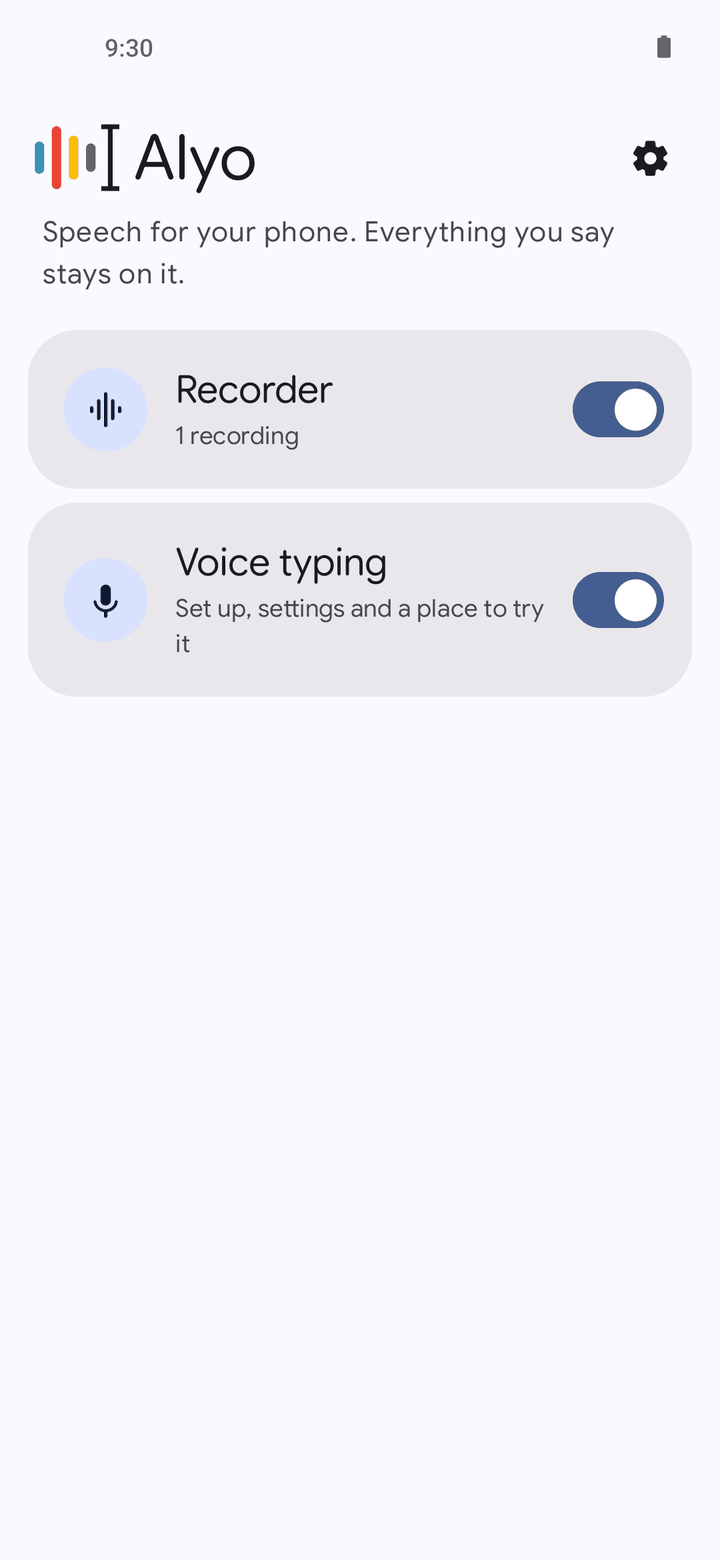
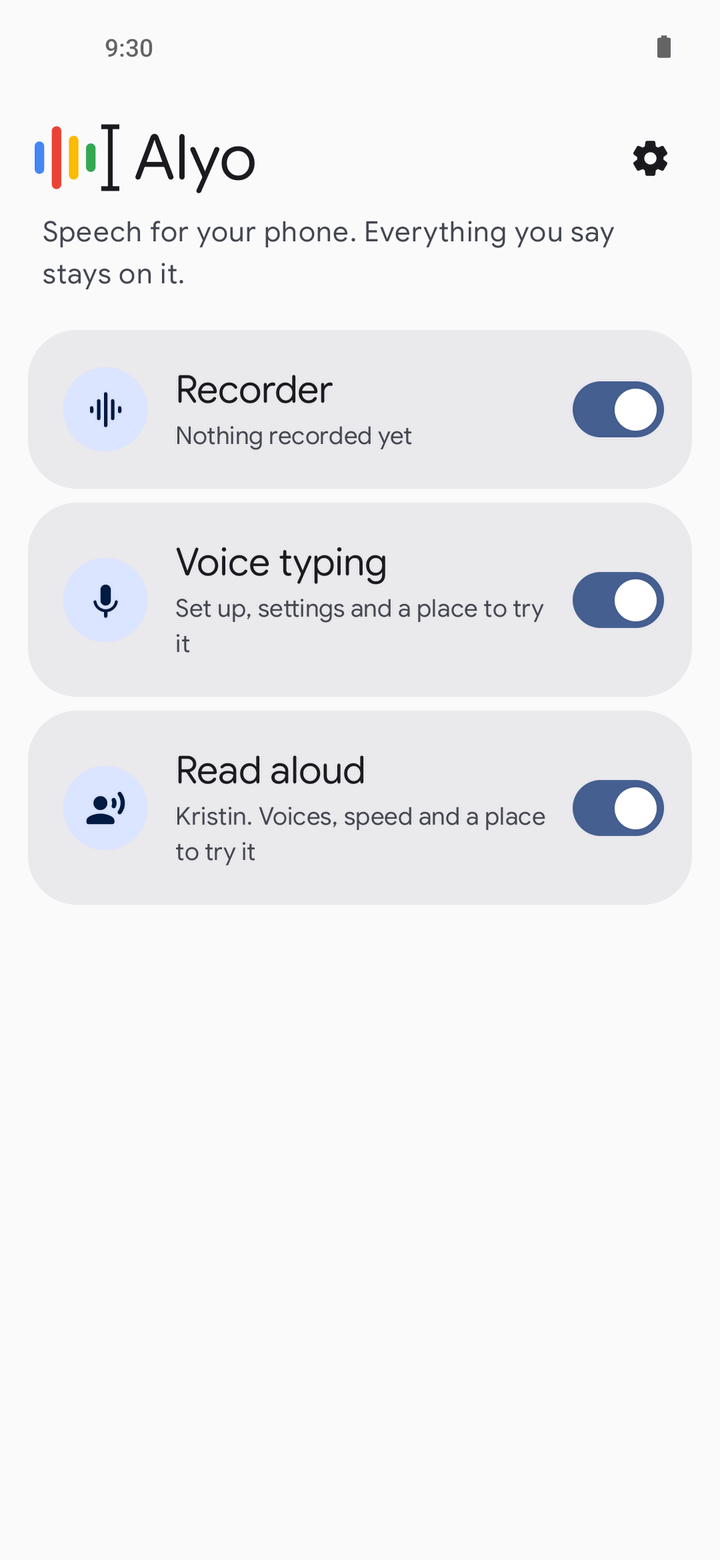
Docs: read aloud in the README, store text and notes, with new screenshots

diff --git a/README.md b/README.md
@@ -4,7 +4,7 @@
 
 # Alyo
 
-**Speech for your phone, without Google: voice typing and a recorder that transcribes as you talk.**
+**Speech for your phone, without Google: voice typing, a recorder that transcribes as you talk, and a voice that reads aloud.**
 
 [<img src="https://raw.githubusercontent.com/ImranR98/Obtainium/main/assets/graphics/badge_obtainium.png" alt="Get it on Obtainium" height="54">](https://apps.obtainium.imranr.dev/redirect?r=obtainium://add/https://github.com/PimpinPumpkin/alyo)&nbsp;&nbsp;[<img src="https://img.shields.io/badge/DOWNLOAD%20APK-1A73E8?style=for-the-badge&logo=android&logoColor=white" alt="Download the APK" height="54">](https://github.com/PimpinPumpkin/alyo/releases/latest)
 
@@ -12,16 +12,16 @@ Android 10 or later, 64-bit. No account, no cloud, no Google services.
 
 </div>
 
-| Alyo | Voice typing | Recorder | Live transcript | Speakers |
+| Alyo | Voice typing | Read aloud | Recorder | Live transcript |
 |:-:|:-:|:-:|:-:|:-:|
-| <img src="docs/screenshots/00-alyo.png" width="150"> | <img src="docs/screenshots/11-voice-typing.png" width="150"> | <img src="docs/screenshots/01-home.png" width="150"> | <img src="docs/screenshots/02-live-transcript.png" width="150"> | <img src="docs/screenshots/04-speakers.png" width="150"> |
+| <img src="docs/screenshots/00-alyo.png" width="150"> | <img src="docs/screenshots/11-voice-typing.png" width="150"> | <img src="docs/screenshots/12-read-aloud.png" width="150"> | <img src="docs/screenshots/01-home.png" width="150"> | <img src="docs/screenshots/02-live-transcript.png" width="150"> |
 
-| Music and speech | Summary | Playback | Search | Dark |
+| Speakers | Music and speech | Summary | Playback | Search |
 |:-:|:-:|:-:|:-:|:-:|
-| <img src="docs/screenshots/03-music.png" width="150"> | <img src="docs/screenshots/07-summary.png" width="150"> | <img src="docs/screenshots/05-playback.png" width="150"> | <img src="docs/screenshots/06-search.png" width="150"> | <img src="docs/screenshots/10-speakers-dark.png" width="150"> |
+| <img src="docs/screenshots/04-speakers.png" width="150"> | <img src="docs/screenshots/03-music.png" width="150"> | <img src="docs/screenshots/07-summary.png" width="150"> | <img src="docs/screenshots/05-playback.png" width="150"> | <img src="docs/screenshots/06-search.png" width="150"> |
 
-Alyo is one app with two jobs. Turn on either or both; what you leave off stays out of your way.
-Both use the same speech models, so they are downloaded and kept only once.
+Alyo is one app with three jobs. Turn on any of them; what you leave off stays out of your way.
+Voice typing and the recorder use the same speech models, so those are downloaded and kept once.
 
 ## Voice typing
 
@@ -48,10 +48,19 @@ Both use the same speech models, so they are downloaded and kept only once.
 - **Back up and restore** the whole library.
 - **Its own icon.** With the recorder on, a "Recorder" icon opens straight into it.
 
-## Both
+## Read aloud
 
-- **Private.** Nothing you say leaves the phone.
-- **English, German, French and Spanish** in the recorder. Voice typing is English for now.
+- **A voice for the whole phone.** Choose Alyo as the speech engine and screen readers, navigation
+  and read-aloud buttons in other apps all use it.
+- **Read any text.** Select it and pick "Read aloud", or share it to Alyo.
+- **Eleven voices** in English, German, French and Spanish, each a 67 MB download.
+- **Adjustable speed.**
+
+## All of it
+
+- **Private.** Nothing you say, and nothing read to you, leaves the phone.
+- **English, German, French and Spanish** in the recorder and in read aloud. Voice typing is
+  English for now.
 
 The recorder is a free-software take on Google's Recorder app. Alyo is not affiliated with Google.
 It is new, so expect a bug or two; [open an issue](https://github.com/PimpinPumpkin/alyo/issues)
@@ -148,6 +157,7 @@ on first launch.
 
 - Best uses about 1.1 GB of memory while it is working.
 - With the recorder on and speaker labels left on, add 97 MB for the voice model.
+- Read aloud needs one voice, 67 MB each. It does not need the speech models at all.
 - Summaries need a separate model: Quick (676 MB) or Thorough (1.1 GB). Any other GGUF chat model
   can be imported instead.
 
@@ -165,7 +175,7 @@ When a later version moves to a newer model, the one you have keeps working unti
 
 | What you do | Who hears about it |
 | --- | --- |
-| Dictate, record, transcribe, label speakers, summarize, search | **Nobody.** All of it runs on the phone |
+| Dictate, record, transcribe, label speakers, summarize, search, have text read to you | **Nobody.** All of it runs on the phone |
 | Download a model | **GitHub or Hugging Face**, which see a file download and nothing else |
 | Import a model from files instead | **Nobody** |
 | Export or share a recording | **Whichever app you send it to** |
@@ -208,6 +218,9 @@ models stay in memory for a few minutes so the next sentence starts at once.
   experimental.
 - **Audio**: AAC, 48 kHz mono, written so that a recording survives the app being killed.
   Cropping copies audio frames without re-encoding.
+- **Read aloud**: [Piper](https://github.com/OHF-Voice/piper1-gpl) voices, with eSpeak NG turning
+  spelling into sounds. Alyo registers as an Android text-to-speech engine, so it works wherever
+  the phone speaks. On a Pixel 4a 5G a sentence is ready about six times faster than it is spoken.
 
 Each version of the app pins the exact model files it uses by SHA-256. They are fetched from the
 [`models` release](https://github.com/PimpinPumpkin/alyo/releases/tag/models) here, which holds
@@ -220,7 +233,9 @@ unmodified copies, and from the original publisher if that fails.
 
 <br>
 
-- Reading text aloud is planned and not built yet.
+- Read aloud has no pause or skip yet, and does not highlight the words as it goes.
+- One voice, HFC, was trained on recordings licensed for non-commercial use only. It is labeled
+  where you choose it. The others are free to use for anything.
 - Voice typing is English only. The recorder has four languages; adding one needs a good open
   streaming model, and few languages have one.
 - The app's own text is English only.
@@ -284,5 +299,7 @@ GPL-3.0. See [LICENSE](LICENSE).
 | Banafo Kroko ASR | CC BY-SA 4.0 |
 | CED tiny, Qwen2.5 | Apache 2.0 |
 | pyannote segmentation 3.0 | MIT |
+| Piper voices | Per voice: public domain, CC0, CC BY 4.0, and one CC BY-NC-SA 4.0 |
+| eSpeak NG data (inside each voice) | GPL 3.0 |
 | [Google Sans Flex](https://fonts.google.com/specimen/Google+Sans+Flex) | OFL 1.1, see [licenses/](licenses/GoogleSansFlex-OFL.txt) |
 | AndroidX, Compose, Media3, Commons Compress | Apache 2.0 |

diff --git a/CLAUDE.md b/CLAUDE.md
@@ -1,8 +1,8 @@
 # Alyo
 
 Speech for Android without Google, in one app: a voice-only keyboard that types while you talk,
-and a recorder that transcribes as it records. Both run on one on-device engine and one set of
-models. README.md covers how it works.
+a recorder that transcribes as it records, and a text-to-speech engine. The first two share one
+on-device engine and one set of models. README.md covers how it works.
 
 ## Rules
 
@@ -20,6 +20,8 @@ once per clone.
 - `asr/` the shared engine: model catalog and downloads, live and second-pass transcription.
 - `dictation/`, `ime/`, `recognition/`, `text/` voice typing.
 - `audio/`, `data/`, `playback/`, `export/`, `llm/`, `service/` the recorder.
+- `tts/` read aloud: the Piper engine, the Android `TextToSpeechService`, and the sheet that
+  reads shared or selected text.
 - `data/Settings.kt` holds `Feature`: each feature lists the manifest components it owns. They are
   disabled in the manifest and enabled when the user turns the feature on, so a new feature's
   components must be added there or they will never appear.

diff --git a/docs/FDROID.md b/docs/FDROID.md
@@ -22,6 +22,10 @@ models (CED tiny, pyannote segmentation) are fetched at configuration time. F-Dr
 network after checkout, so llama.cpp and sherpa-onnx need to become submodules or srclibs, and the
 two models need to be downloaded at run time like the rest or come from a source F-Droid accepts.
 
+**One voice is not free.** The HFC voice was trained on recordings under CC BY-NC-SA 4.0. It is
+downloaded only if the user picks it, but F-Droid may still want it removed or flagged
+(NonFreeAssets). Every other voice and model is under a free license.
+
 **The repository has to be public.**
 
 ## Until then
